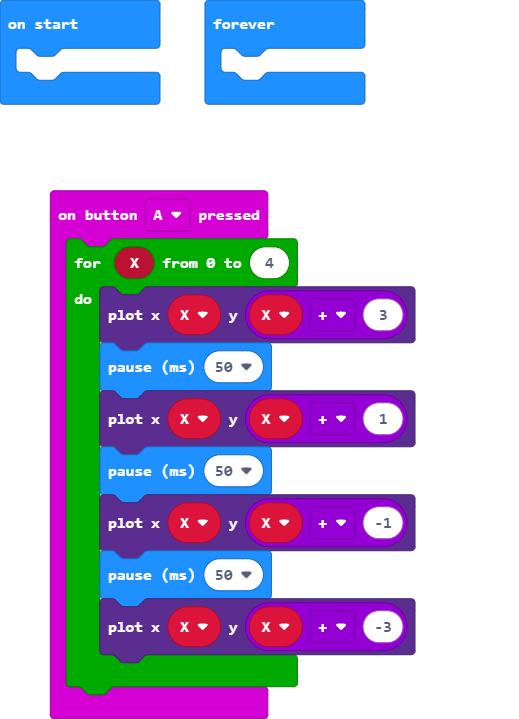
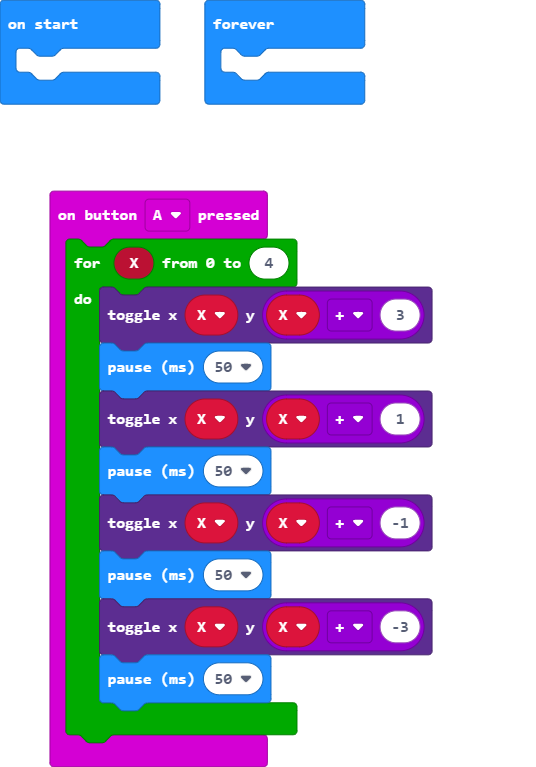
Update main.blocks, main.ts

diff --git a/main.ts b/main.ts
@@ -1,12 +1,13 @@
 input.onButtonPressed(Button.A, function () {
     for (let X = 0; X <= 4; X++) {
-        led.plot(X, X + 3)
+        led.toggle(X, X + 3)
         basic.pause(50)
-        led.plot(X, X + 1)
+        led.toggle(X, X + 1)
         basic.pause(50)
-        led.plot(X, X + -1)
+        led.toggle(X, X + -1)
         basic.pause(50)
-        led.plot(X, X + -3)
+        led.toggle(X, X + -3)
+        basic.pause(50)
     }
 })
 basic.forever(function () {
